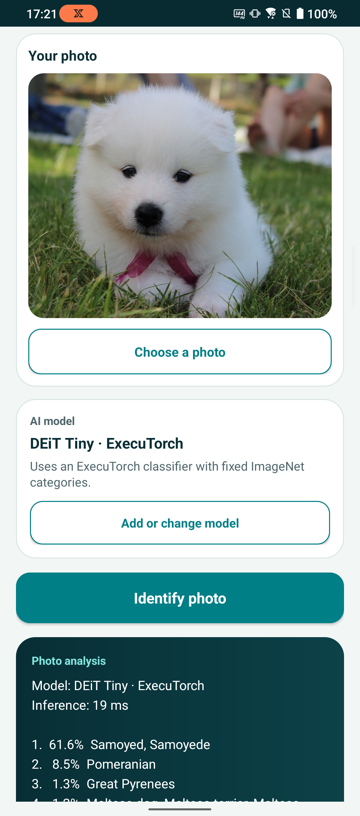
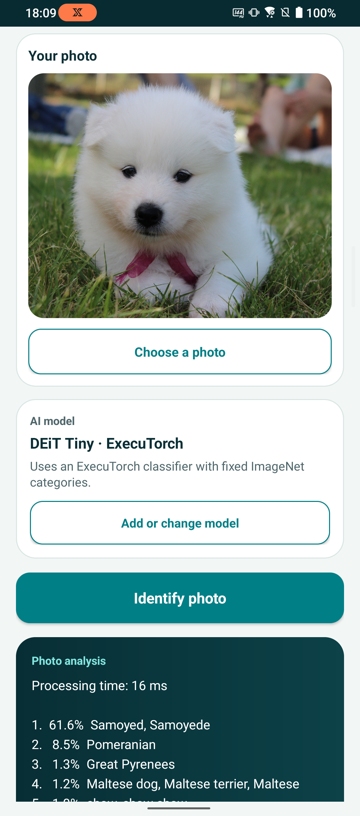
Update UI

diff --git a/app/src/main/java/org/arm/learningpath/imageclassification/ExecuTorchImageClassifier.java b/app/src/main/java/org/arm/learningpath/imageclassification/ExecuTorchImageClassifier.java
@@ -36,16 +36,14 @@ final class ExecuTorchImageClassifier implements Closeable {
     private static final float[] HALF_STANDARD_DEVIATION = {0.5f, 0.5f, 0.5f};
 
     private final Module module;
-    private final String modelName;
     private final PreprocessingProfile preprocessingProfile;
     private final List<String> labels;
 
-    ExecuTorchImageClassifier(Context context, File modelFile, String displayName,
+    ExecuTorchImageClassifier(Context context, File modelFile,
                               PreprocessingProfile profile) throws Exception {
         if (!modelFile.isFile() || modelFile.length() == 0) {
             throw new IllegalArgumentException("The imported ExecuTorch model is unavailable.");
         }
-        modelName = displayName;
         preprocessingProfile = profile;
         labels = readLabels(context);
 
@@ -247,8 +245,7 @@ final class ExecuTorchImageClassifier implements Closeable {
         ).reversed());
 
         StringBuilder output = new StringBuilder();
-        output.append("Model: ").append(modelName).append('\n');
-        output.append("Inference: ").append(elapsedMilliseconds).append(" ms\n\n");
+        output.append("Processing time: ").append(elapsedMilliseconds).append(" ms\n\n");
         for (int rank = 0; rank < TOP_K; rank++) {
             int index = indices.get(rank);
             output.append(String.format(

diff --git a/app/src/main/java/org/arm/learningpath/imageclassification/ExecuTorchClipAdapter.java b/app/src/main/java/org/arm/learningpath/imageclassification/ExecuTorchClipAdapter.java
@@ -67,15 +67,15 @@ final class ExecuTorchClipAdapter implements VisionAdapter {
                         descriptionInput.descriptions()
                 );
                 StringBuilder output = new StringBuilder();
+                output.append(String.format(
+                        Locale.US,
+                        "Processing time: %,d ms%n%n",
+                        result.elapsedMilliseconds()
+                ));
                 int rank = 1;
                 for (ClipModel.ScoredLabel label : result.labels()) {
                     output.append(label.display(rank++)).append('\n');
                 }
-                output.append(String.format(
-                        Locale.US,
-                        "\nAnalysis time: %,d ms",
-                        result.elapsedMilliseconds()
-                ));
                 return output.toString();
             }
 

diff --git a/app/src/main/java/org/arm/learningpath/imageclassification/LiteRtClassifier.java b/app/src/main/java/org/arm/learningpath/imageclassification/LiteRtClassifier.java
@@ -295,7 +295,7 @@ final class LiteRtClassifier implements Closeable {
                                  List<Prediction> predictions) {
         public String formattedResults() {
             StringBuilder text = new StringBuilder();
-            text.append("Inference: ").append(elapsedMilliseconds).append(" ms\n\n");
+            text.append("Processing time: ").append(elapsedMilliseconds).append(" ms\n\n");
             for (int index = 0; index < predictions.size(); index++) {
                 Prediction prediction = predictions.get(index);
                 text.append(String.format(

diff --git a/app/src/main/java/org/arm/learningpath/imageclassification/ClipModel.java b/app/src/main/java/org/arm/learningpath/imageclassification/ClipModel.java
@@ -200,10 +200,10 @@ final class ClipModel implements Closeable {
         String display(int rank) {
             return String.format(
                     Locale.US,
-                    "%d. %-24s %6.2f%%",
+                    "%d. %6.2f%%  %s",
                     rank,
-                    label,
-                    probability * 100.0f
+                    probability * 100.0f,
+                    label
             );
         }
     }

diff --git a/app/src/main/java/org/arm/learningpath/imageclassification/ExecuTorchImageClassificationAdapter.java b/app/src/main/java/org/arm/learningpath/imageclassification/ExecuTorchImageClassificationAdapter.java
@@ -53,7 +53,6 @@ final class ExecuTorchImageClassificationAdapter implements VisionAdapter {
         ExecuTorchImageClassifier classifier = new ExecuTorchImageClassifier(
                 context,
                 modelFile,
-                descriptor.displayLabel(),
                 preprocessingProfile(descriptor)
         );
         return new ModelRunner() {
